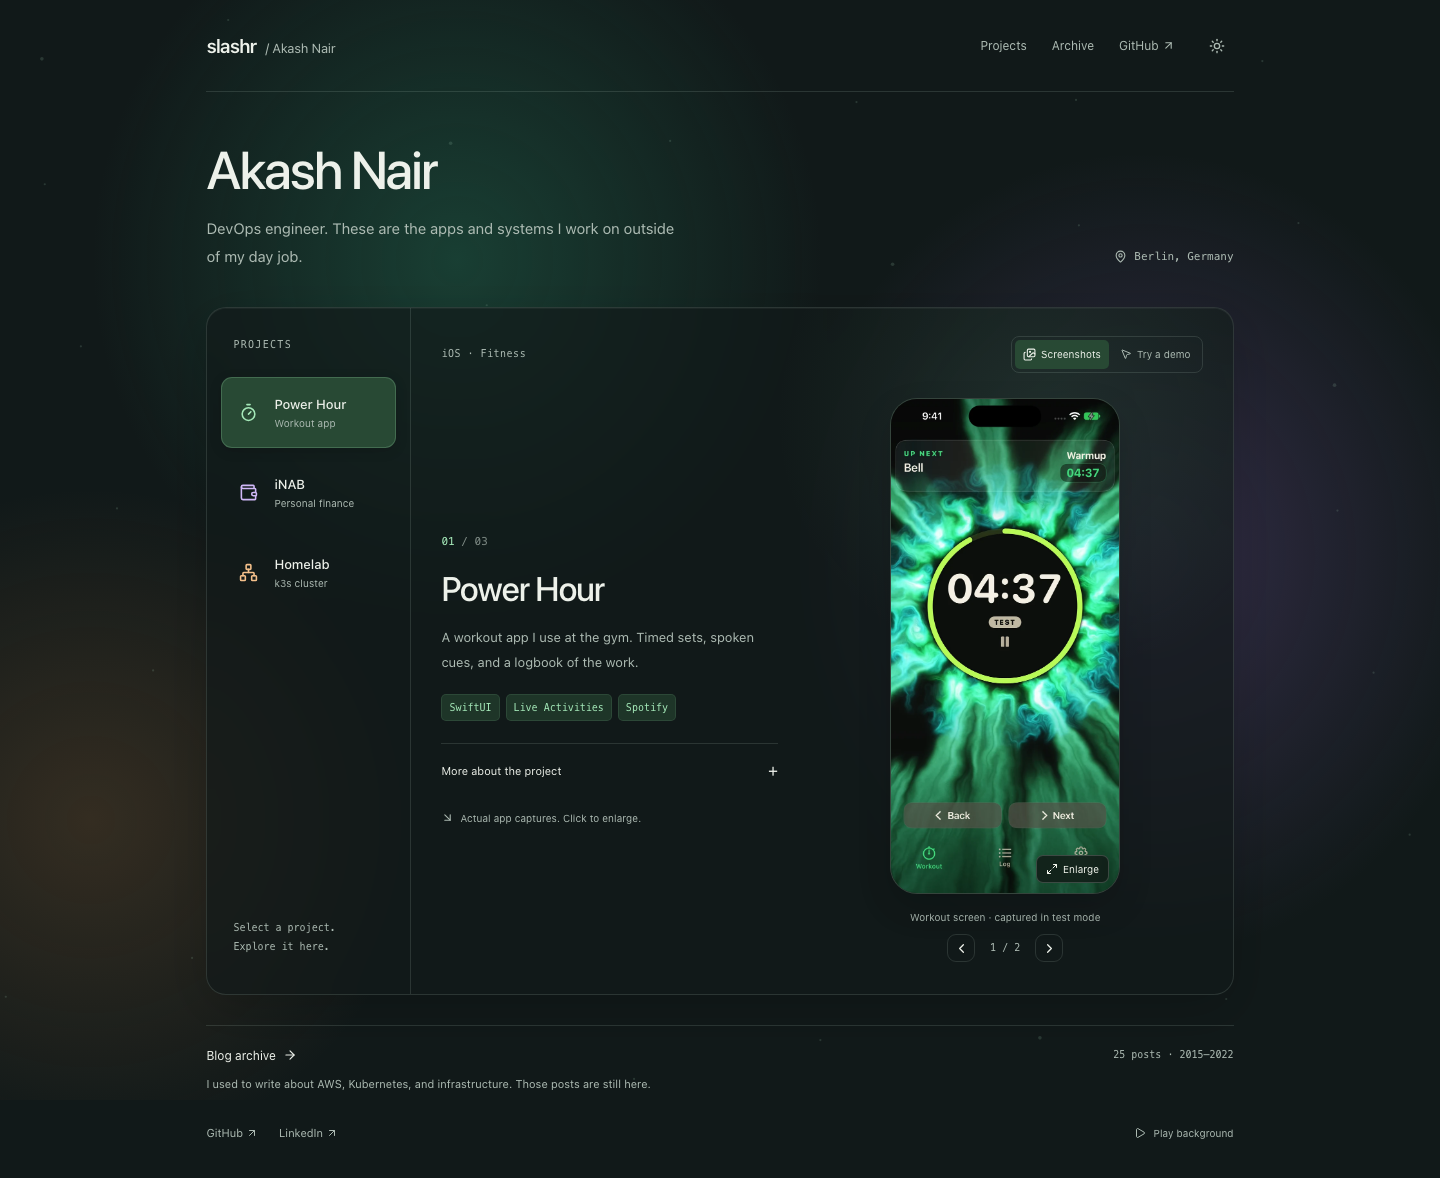
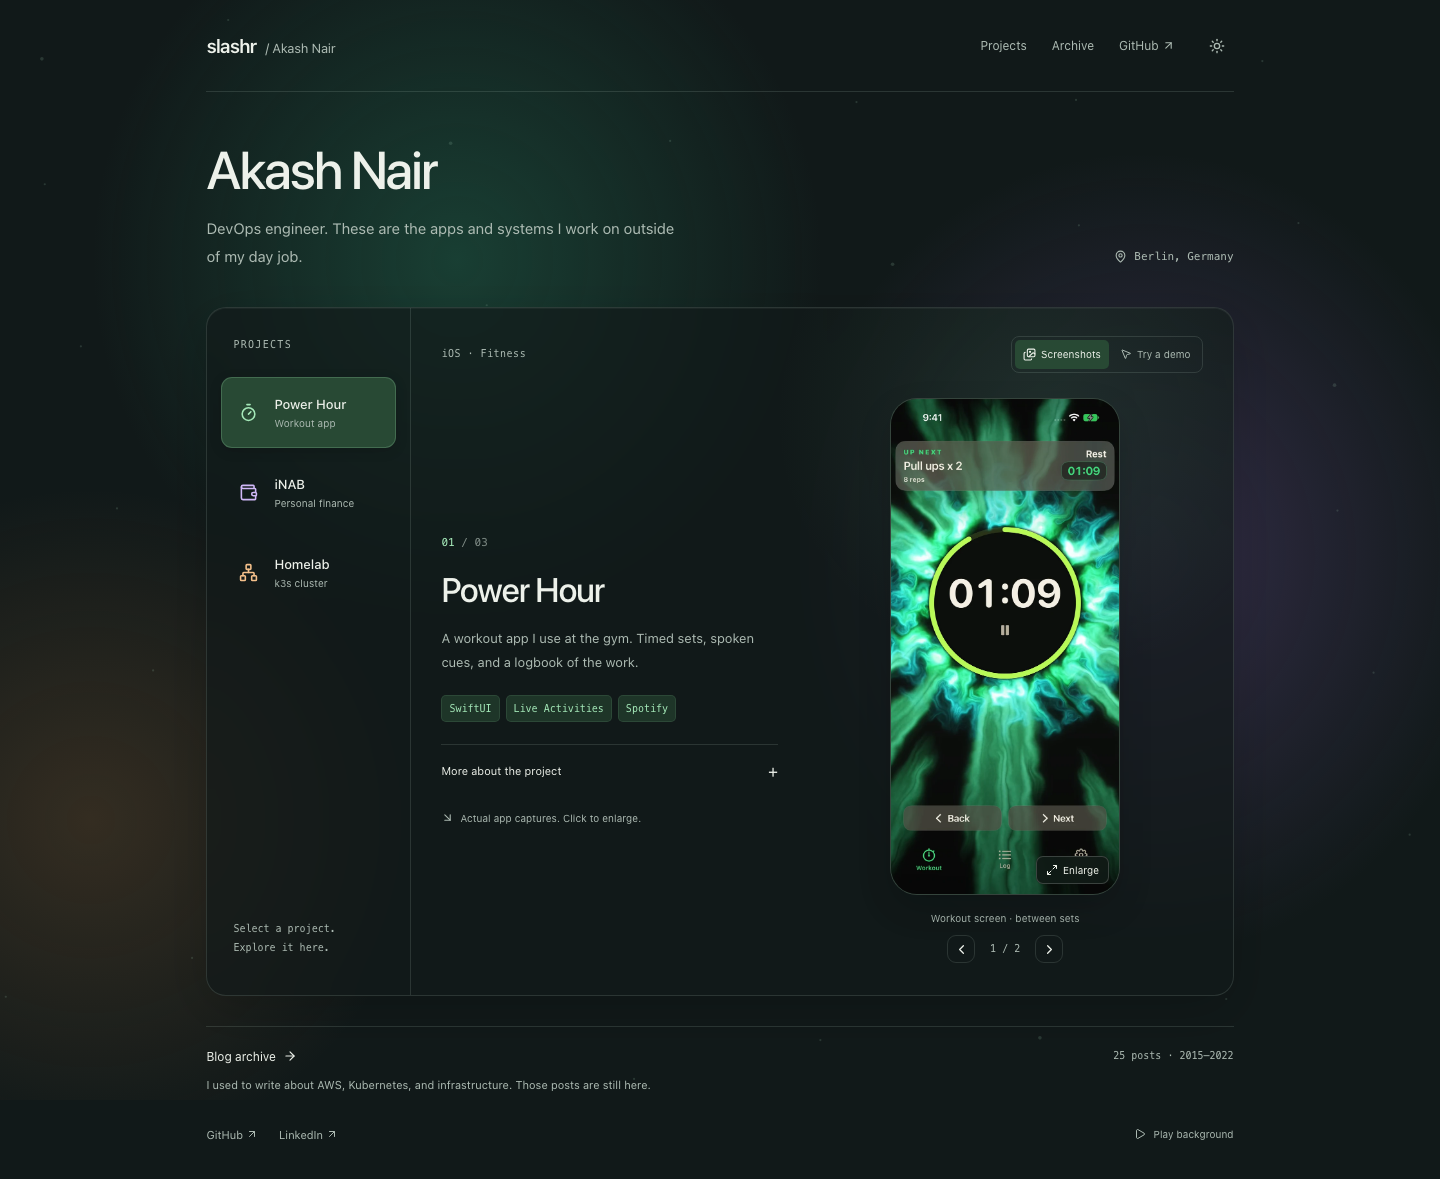
Replace Power Hour test capture with a normal workout

Changed region(s): [[0.5938, 0.3362, 0.7812, 0.7946], [0.3125, 0.489, 0.375, 0.5195]]

diff --git a/lib/projects.ts b/lib/projects.ts
@@ -33,10 +33,10 @@ export const projects: Project[] = [
     screenshots: [
       {
         src: "/projects/power-hour-workout.webp",
-        alt: "Power Hour running a warm-up with a green plasma orb behind the timer",
-        caption: "Workout screen · captured in test mode",
+        alt: "Power Hour resting between sets, with Pull ups x 2 and 8 reps up next",
+        caption: "Workout screen · between sets",
         width: 708,
-        height: 1535,
+        height: 1539,
       },
       {
         src: "/projects/power-hour-muscles.webp",

diff --git a/docs/screenshots.md b/docs/screenshots.md
@@ -8,10 +8,18 @@ is used in the iNAB screenshots.
 ## Power Hour
 
 The source checkout was at `31891c412eeab3d35e49432636b7ee9b83ae0e65`.
-The committed simulator captures are:
+The simulator captures are:
 
-- `docs/previews/plasma-orb/active.png` → `power-hour-workout.webp`.
-  A workout running in the app's explicitly marked Test mode.
+- `power-hour-workout.webp` was freshly captured on 2026-10-18 from a build of
+  that checkout, in a clean iPhone 17 Pro simulator running iOS 27.0.
+  Test mode was explicitly disabled (`testModeEnabled = false`). The app's
+  existing debug launch controls started a normal workout and advanced to the
+  rest after its first set (`--ui-test-start --ui-test-phase=5`); these controls
+  do not enable Test mode. The actual header reads **Pull ups x 2**, **8 reps**.
+  No simulated heart-rate readings or personal history were supplied.
+  The 1206 × 2622 screenshot was resized to 708 × 1539 and compressed to WebP;
+  its interface, text, and badges were not edited. The task-created simulator
+  (`FA0FA773-E7B4-4AB3-B49F-642591AC584C`) was shut down and deleted afterwards.
 - `docs/screenshots/pr-197-muscle-all-routines.png` → `power-hour-muscles.webp`.
   Muscle coverage for the bundled sample routines. Its source documentation
   identifies these as simulator captures with no personal history.
